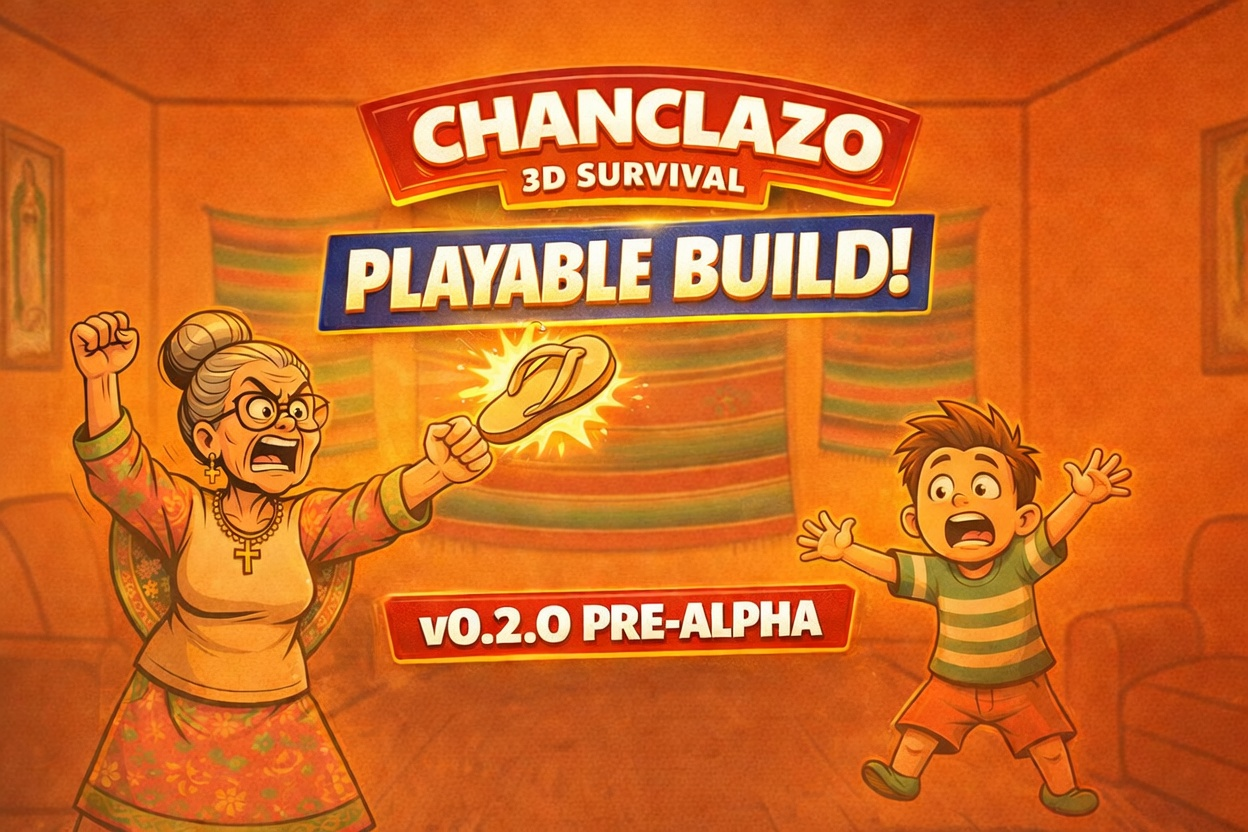
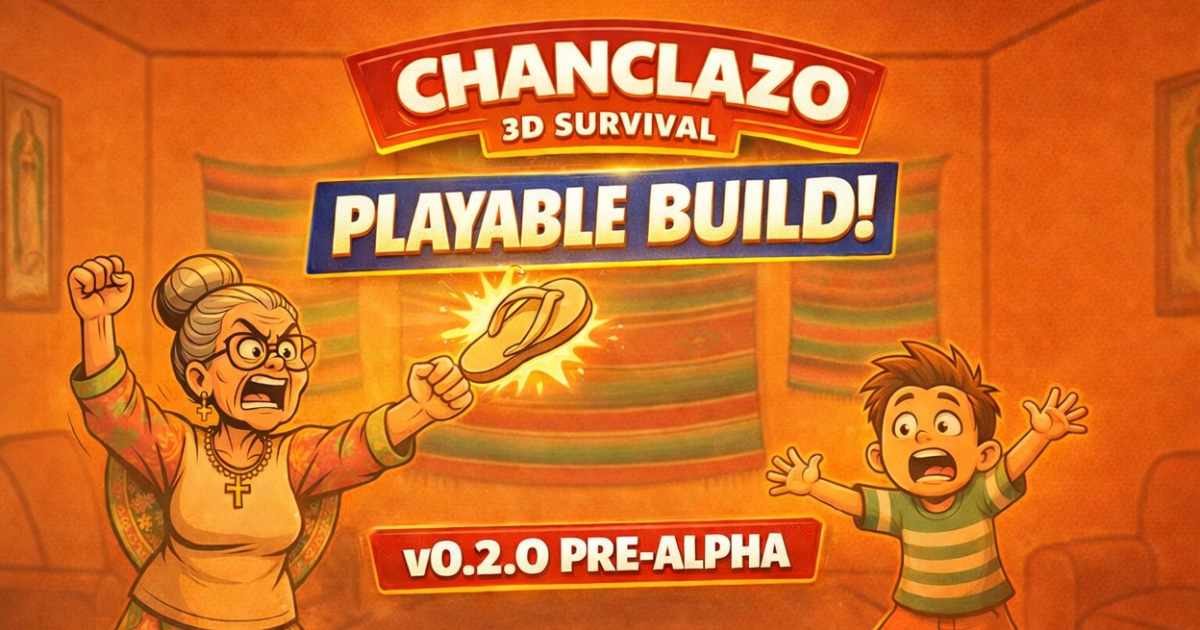
feat: audio engine, screen shake boost, impact particles, combo stars, social meta

diff --git a/src/game/sound.ts b/src/game/sound.ts
@@ -1,0 +1,166 @@
+// ─── Chanclazo Sound Engine (Web Audio API — zero files needed) ───────────────
+// All sounds are synthesized procedurally. Call initAudio() once on first user
+// interaction, then call the individual play* functions anywhere in the engine.
+
+let ctx: AudioContext | null = null;
+let masterGain: GainNode | null = null;
+let muted = false;
+
+// ─── Init ─────────────────────────────────────────────────────────────────────
+export function initAudio(): void {
+  if (ctx) return; // already initialized
+  try {
+    ctx = new AudioContext();
+    masterGain = ctx.createGain();
+    masterGain.gain.value = 0.7;
+    masterGain.connect(ctx.destination);
+  } catch {
+    ctx = null;
+  }
+}
+
+export function setMuted(m: boolean): void { muted = m; }
+export function isMuted(): boolean { return muted; }
+
+// ─── Low-level helpers ────────────────────────────────────────────────────────
+function getCtx(): AudioContext | null {
+  if (!ctx || muted) return null;
+  if (ctx.state === 'suspended') ctx.resume();
+  return ctx;
+}
+
+function connect(node: AudioNode): void {
+  if (masterGain) node.connect(masterGain);
+}
+
+function osc(
+  frequency: number,
+  type: OscillatorType,
+  startTime: number,
+  duration: number,
+  gainPeak: number,
+  freqEnd?: number,
+): void {
+  const c = getCtx(); if (!c) return;
+  const o = c.createOscillator();
+  const g = c.createGain();
+  o.type = type;
+  o.frequency.setValueAtTime(frequency, startTime);
+  if (freqEnd !== undefined) o.frequency.exponentialRampToValueAtTime(freqEnd, startTime + duration);
+  g.gain.setValueAtTime(gainPeak, startTime);
+  g.gain.exponentialRampToValueAtTime(0.001, startTime + duration);
+  o.connect(g); connect(g);
+  o.start(startTime); o.stop(startTime + duration + 0.01);
+}
+
+function noise(startTime: number, duration: number, gainPeak: number, lowpass = 3000): void {
+  const c = getCtx(); if (!c) return;
+  const bufLen = Math.ceil(c.sampleRate * duration);
+  const buf = c.createBuffer(1, bufLen, c.sampleRate);
+  const data = buf.getChannelData(0);
+  for (let i = 0; i < bufLen; i++) data[i] = Math.random() * 2 - 1;
+  const src = c.createBufferSource();
+  src.buffer = buf;
+  const filt = c.createBiquadFilter();
+  filt.type = 'lowpass';
+  filt.frequency.value = lowpass;
+  const g = c.createGain();
+  g.gain.setValueAtTime(gainPeak, startTime);
+  g.gain.exponentialRampToValueAtTime(0.001, startTime + duration);
+  src.connect(filt); filt.connect(g); connect(g);
+  src.start(startTime); src.stop(startTime + duration + 0.01);
+}
+
+// ─── 1. Chancla Whoosh — called when mom throws ───────────────────────────────
+export function playWhoosh(speed = 1.0): void {
+  const c = getCtx(); if (!c) return;
+  const t = c.currentTime;
+  // Descending noise sweep — like something cutting through air
+  noise(t, 0.18, 0.28 * speed, 2200);
+  osc(380, 'sine', t, 0.15, 0.12, 120);
+}
+
+// ─── 2. Hit Smack — chancla connects with player ─────────────────────────────
+export function playHit(): void {
+  const c = getCtx(); if (!c) return;
+  const t = c.currentTime;
+  // Meaty low thud + sharp crack
+  osc(140, 'sine', t, 0.12, 0.55, 40);       // low thud body
+  osc(900, 'square', t, 0.04, 0.30, 200);    // sharp slap crack
+  noise(t, 0.10, 0.45, 4000);                 // skin impact noise
+  // Pain sting — quick rising whine
+  osc(480, 'sine', t + 0.03, 0.12, 0.18, 780);
+}
+
+// ─── 3. Strike Back — player smacks chancla back ─────────────────────────────
+export function playStrike(): void {
+  const c = getCtx(); if (!c) return;
+  const t = c.currentTime;
+  // Satisfying power hit: deep punch + rising power tone
+  osc(200, 'sine', t, 0.08, 0.6, 60);        // punch
+  osc(600, 'sawtooth', t, 0.06, 0.35, 1200); // rising power
+  noise(t, 0.08, 0.5, 5000);
+  osc(220, 'sine', t + 0.07, 0.18, 0.25, 440); // reverb tail
+}
+
+// ─── 4. Mom Hit — struck-back chancla hits mom ────────────────────────────────
+export function playMomHit(): void {
+  const c = getCtx(); if (!c) return;
+  const t = c.currentTime;
+  // Grunt impact — bassy thump + feminine yelp frequency
+  osc(100, 'sine', t, 0.15, 0.7, 35);        // deep thump
+  osc(700, 'sine', t, 0.08, 0.4, 350);       // yelp descend
+  noise(t, 0.12, 0.35, 2500);
+}
+
+// ─── 5. Dodge — chancla flies past ────────────────────────────────────────────
+export function playDodge(): void {
+  const c = getCtx(); if (!c) return;
+  const t = c.currentTime;
+  // Quick Doppler-like whoosh passing by
+  osc(600, 'sine', t, 0.10, 0.15, 180);
+  noise(t, 0.09, 0.12, 1800);
+}
+
+// ─── 6. Jump ──────────────────────────────────────────────────────────────────
+export function playJump(): void {
+  const c = getCtx(); if (!c) return;
+  const t = c.currentTime;
+  osc(220, 'sine', t, 0.10, 0.18, 420);
+}
+
+// ─── 7. Level Up / Victory stinger ───────────────────────────────────────────
+export function playLevelUp(): void {
+  const c = getCtx(); if (!c) return;
+  const t = c.currentTime;
+  const notes = [523, 659, 784, 1047]; // C E G C
+  notes.forEach((freq, i) => {
+    osc(freq, 'sine', t + i * 0.10, 0.18, 0.3);
+  });
+}
+
+// ─── 8. Game Over stinger ─────────────────────────────────────────────────────
+export function playGameOver(): void {
+  const c = getCtx(); if (!c) return;
+  const t = c.currentTime;
+  osc(440, 'sine', t, 0.25, 0.4, 220);
+  osc(330, 'sine', t + 0.15, 0.25, 0.35, 165);
+  osc(220, 'sine', t + 0.30, 0.40, 0.3, 110);
+}
+
+// ─── 9. Shield activate ───────────────────────────────────────────────────────
+export function playShield(): void {
+  const c = getCtx(); if (!c) return;
+  const t = c.currentTime;
+  osc(880, 'sine', t, 0.20, 0.25, 1320);
+  osc(660, 'sine', t + 0.05, 0.20, 0.15, 990);
+}
+
+// ─── 10. Combo hit ────────────────────────────────────────────────────────────
+export function playCombo(comboCount: number): void {
+  const c = getCtx(); if (!c) return;
+  const t = c.currentTime;
+  const freq = 440 + comboCount * 80;
+  osc(freq, 'sine', t, 0.12, 0.35, freq * 1.5);
+  osc(freq * 1.5, 'triangle', t + 0.03, 0.10, 0.2);
+}

diff --git a/src/game/engine.ts b/src/game/engine.ts
@@ -32,8 +32,22 @@ import {
   spawnStrikeImpact,
   spawnMomHit,
   spawnBurst,
+  spawnStars,
 } from './particles';
 import { getTexts, pickRandom } from './i18n';
+import {
+  initAudio,
+  playWhoosh,
+  playHit,
+  playStrike,
+  playMomHit,
+  playDodge,
+  playJump,
+  playLevelUp,
+  playGameOver,
+  playShield,
+  playCombo,
+} from './sound';
 
 // ─── Tunables ─────────────────────────────────────────────────────────────────
 const PLAYER_SPEED = 7.0;
@@ -173,8 +187,10 @@ export function createGame(
 
       if (currentLevelIndex >= LEVELS.length - 1) {
         // Beat final level → victory
+        playLevelUp();
         callbacks.onVictory(Math.floor(score), Math.floor(totalSurvival));
       } else {
+        playLevelUp();
         callbacks.onLevelComplete(levelConfig.level, Math.floor(score), timeBonus);
       }
       return;
@@ -213,6 +229,7 @@ export function createGame(
         ch.group.visible = false;
         if (Math.abs(ch.startPos.x - ch.targetPos.x) < 4) {
           score += SCORE_DODGE;
+          playDodge();
           const texts = getTexts(callbacks.getLang());
           callbacks.onPopup(pickRandom(texts.dodge));
         }
@@ -228,6 +245,7 @@ export function createGame(
         mom.shakeTimer = 1.0;
         const hitPos = new THREE.Vector3(0, 1.5, ROOM.momZ);
         particles.push(...spawnMomHit(scene, hitPos));
+        playMomHit();
 
         const texts = getTexts(callbacks.getLang());
         callbacks.onPopup(pickRandom(texts.momHit));
@@ -239,6 +257,7 @@ export function createGame(
           callbacks.onPopup(pickRandom(texts.heal));
         } else if (roll < HEAL_CHANCE + SHIELD_CHANCE && player.shieldTimer <= 0) {
           player.shieldTimer = SHIELD_DURATION;
+          playShield();
           callbacks.onPopup(pickRandom(texts.shield));
         }
       }
@@ -249,6 +268,9 @@ export function createGame(
     if (!isProtected) {
       for (const ch of chanclas) {
         if (checkChanclaHitsPlayer(ch, player)) {
+          // Burst at exact chancla impact point + player body
+          const impactPos = ch.group.position.clone();
+          particles.push(...spawnBurst(scene, impactPos, 10, [0xFF6B6B, 0xFFD93D, 0xFFFFFF], 5.0, 0.5));
           ch.expired = true;
           ch.group.visible = false;
           onPlayerHit();
@@ -267,12 +289,17 @@ export function createGame(
         score += SCORE_STRIKE;
         shakeIntensity = 0.22;
 
+        playStrike();
+
         const pos = target.group.position.clone();
         particles.push(...spawnStrikeImpact(scene, pos));
 
         const texts = getTexts(callbacks.getLang());
         callbacks.onPopup(pickRandom(texts.strike));
         if (combo >= 3) {
+          playCombo(combo);
+          // Star burst at strike position for combo flair
+          particles.push(...spawnStars(scene, target.group.position.clone()));
           const comboTexts = texts.combo(combo);
           callbacks.onPopup(pickRandom(comboTexts));
         }
@@ -350,6 +377,7 @@ export function createGame(
       for (let v = 0; v < volleySize; v++) {
         chanclas.push(spawnChancla(scene, player, difficulty, style, v));
       }
+      playWhoosh(1.0 + difficulty * 0.05);
       nextThrowAt = survivalTime + nextThrowDelay(difficulty);
     }
 
@@ -378,7 +406,7 @@ export function createGame(
     }
 
     const isGrounded = player.y <= 0.001;
-    if (input.jump && isGrounded) player.vy = JUMP_VELOCITY;
+    if (input.jump && isGrounded) { player.vy = JUMP_VELOCITY; playJump(); }
 
     player.isDucking = input.duck && isGrounded;
     const targetScaleY = player.isDucking ? 0.55 : 1.0;
@@ -434,7 +462,9 @@ export function createGame(
     player.invincibleTimer = INVINCIBLE_DURATION;
     combo = 0;
     comboTimer = 0;
-    shakeIntensity = 0.18;
+    shakeIntensity = 0.45; // boosted from 0.18
+
+    playHit();
 
     const pos = new THREE.Vector3(player.x, player.y + 0.8, ROOM.playerZ);
     particles.push(...spawnBurst(scene, pos, 14, [0xFF6B6B, 0xFFD93D, 0xFFFFFF], 4.5, 0.6));
@@ -443,7 +473,7 @@ export function createGame(
     callbacks.onPopup(pickRandom(texts.hit));
 
     if (health <= 0) {
-      // Game over — stop loop and report
+      playGameOver();
       running = false;
       cancelAnimationFrame(rafId);
       callbacks.onGameOver(Math.floor(score), Math.floor(totalSurvival));
@@ -594,6 +624,7 @@ export function createGame(
 
   // ─── Start ────────────────────────────────────────────────────────────────
   function start() {
+    initAudio();
     clock.start();
     camTarget.set(0, 5.5, ROOM.playerZ + 7.5);
     camLookTarget.set(0, 1.2, ROOM.playerZ - 3);

diff --git a/index.html b/index.html
@@ -2,18 +2,30 @@
 <html lang="en">
   <head>
     <meta charset="UTF-8" />
-    <link rel="icon" type="image/svg+xml" href="/vite.svg" />
+    <link rel="icon" type="image/png" href="/logo_chancla.png" />
     <meta name="viewport" content="width=device-width, initial-scale=1.0" />
-    <title>Chanclazo 3D Survival</title>
-    <meta property="og:title" content="Chanclazo 3D Survival">
-    <meta property="og:description" content="Dodge chanclas from an angry mom in this 3D survival game!">
-    <meta property="og:image" content="/social.jpg">
-    <meta property="og:type" content="website">
-    <meta name="twitter:card" content="summary_large_image">
-    <meta name="twitter:title" content="Chanclazo 3D Survival">
-    <meta name="twitter:description" content="Dodge chanclas from an angry mom in this 3D survival game!">
-    <meta name="twitter:image" content="/social.jpg">
-</head>
+    <title>Chanclazo 3D Survival — Dodge the Chancla!</title>
+    <meta name="description" content="Dodge chanclas from an angry mom in this hilarious 3D survival game! 5 levels of chaos. Can you survive the Final Boss?" />
+
+    <!-- Open Graph / Facebook -->
+    <meta property="og:type" content="website" />
+    <meta property="og:url" content="https://chanclazo.com/" />
+    <meta property="og:title" content="Chanclazo 3D Survival — Dodge the Chancla!" />
+    <meta property="og:description" content="Dodge chanclas from an angry mom in this hilarious 3D survival game! 5 levels of chaos. Can you survive the Final Boss?" />
+    <meta property="og:image" content="https://chanclazo.com/social.jpg" />
+    <meta property="og:image:width" content="1200" />
+    <meta property="og:image:height" content="630" />
+    <meta property="og:image:alt" content="Chanclazo 3D Survival — Playable Build" />
+    <meta property="og:site_name" content="Chanclazo" />
+
+    <!-- Twitter / X -->
+    <meta name="twitter:card" content="summary_large_image" />
+    <meta name="twitter:site" content="@chanclazo" />
+    <meta name="twitter:title" content="Chanclazo 3D Survival — Dodge the Chancla!" />
+    <meta name="twitter:description" content="Dodge chanclas from an angry mom in this hilarious 3D survival game! 5 levels of chaos. Can you survive the Final Boss?" />
+    <meta name="twitter:image" content="https://chanclazo.com/social.jpg" />
+    <meta name="twitter:image:alt" content="Chanclazo 3D Survival — Playable Build" />
+  </head>
   <body>
     <div id="root"></div>
     <script type="module" src="/src/main.tsx"></script>
